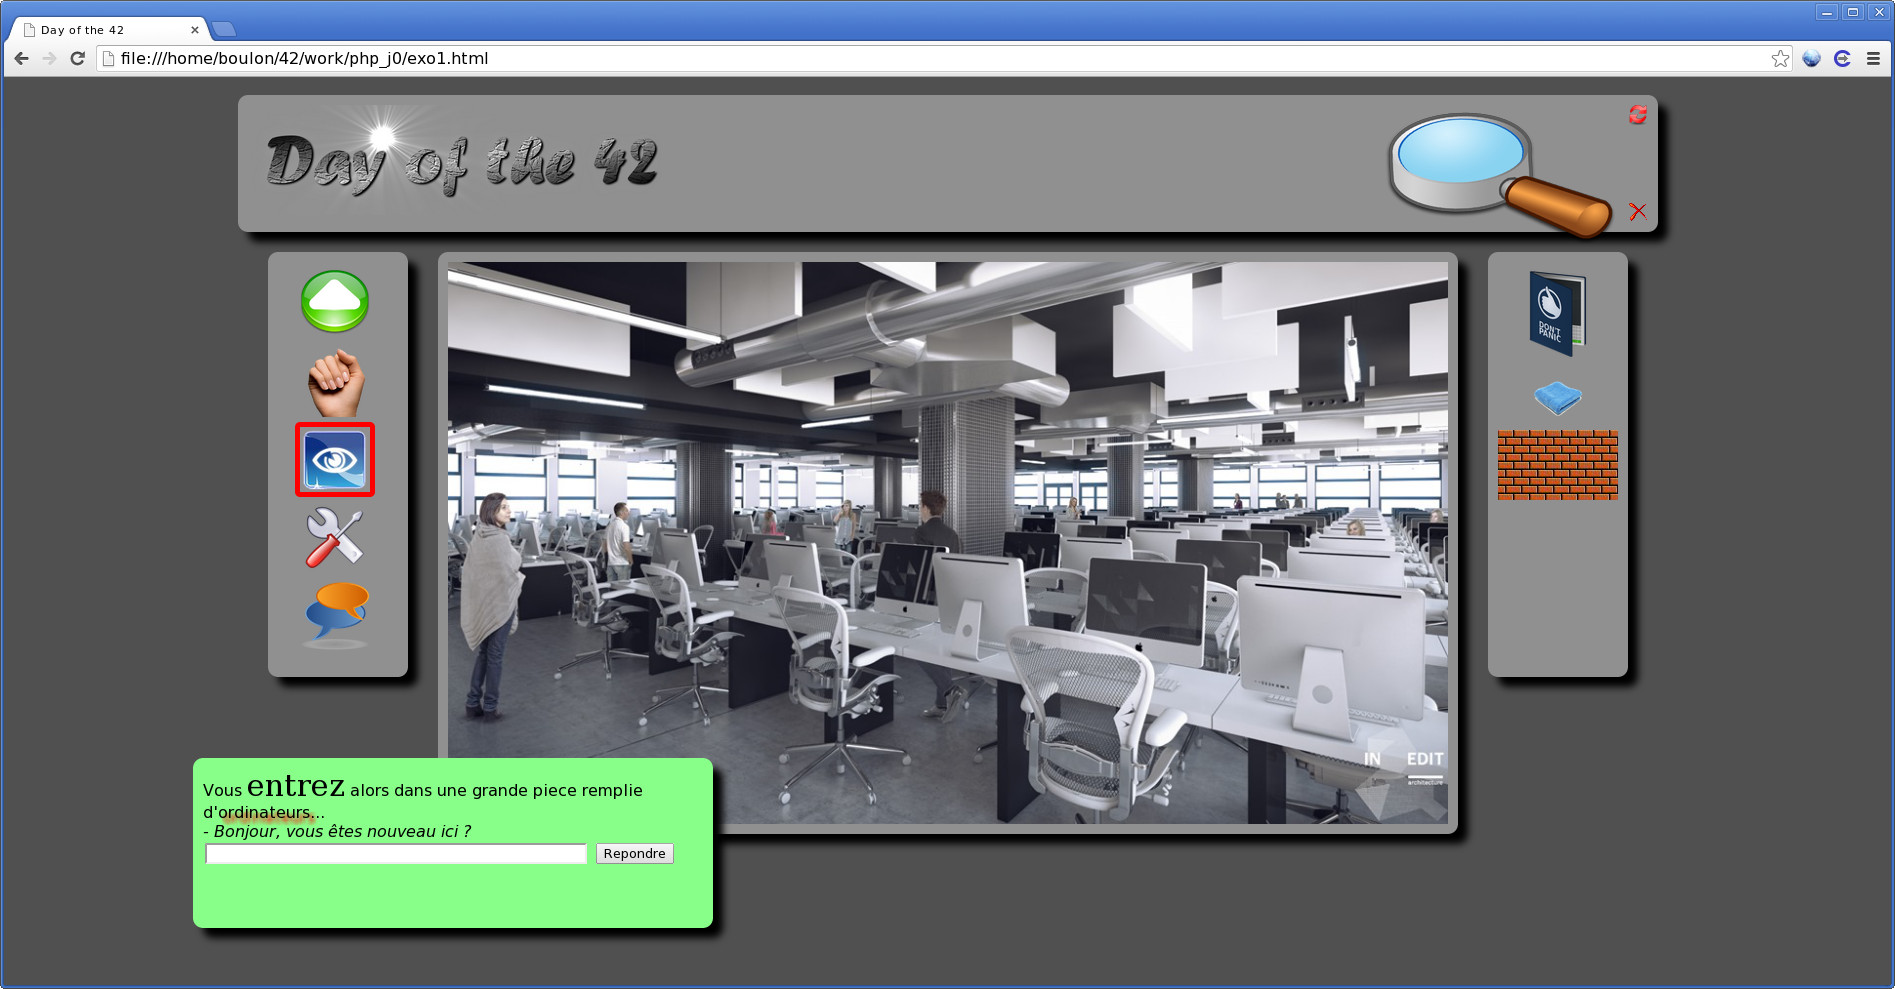
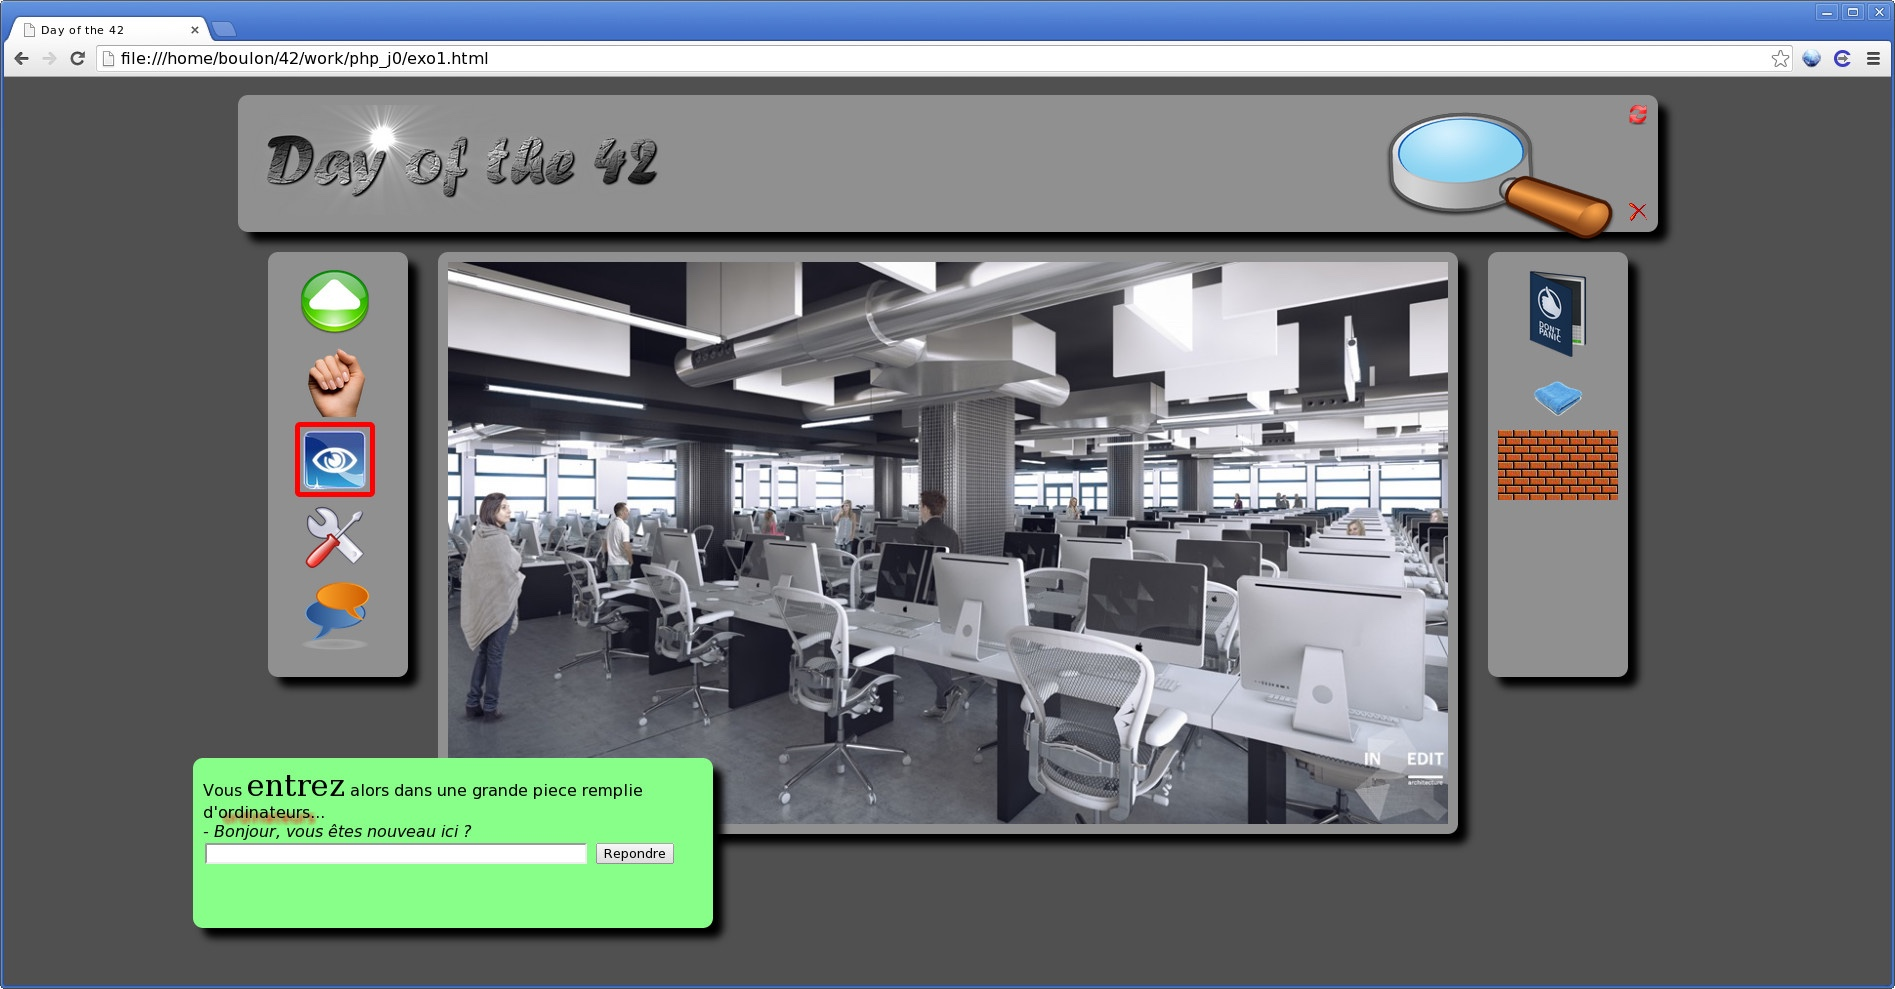
ex02

diff --git a/Day_00-HTML-CSS/ex02/doft.css b/Day_00-HTML-CSS/ex02/doft.css
@@ -8,12 +8,50 @@ body {
 .top_menu {
     width: 1420px;
     height: 136px;
-    margin-left: 240px;
+    margin-left: 235px;
     margin-right: 235px;
-    margin-top: 20px;
+    margin-top: 18px;
     background-color: #909090;
+    display: inline-block;
+    position: relative;
 }
 
 .top_image {
-    
+    height: 116px;
+    margin-top: 10px;
+    margin-bottom: 10px;
+    position: absolute;
+}
+
+.loupe {
+    width: 251px;
+    height: 140px;
+    margin-top: 15px;
+    margin-left: 1150px;
+}
+
+.left_menu {
+    width: 140px;
+    height: 265px;
+    margin-left: 265px;
+    background-color: #909090;
+    display: inline-block;
+    position: relative;
+}
+
+.center_image {
+    width: 1000px;
+    height: 560px;
+    margin-left: 180px;
+    display: inline-block;
+    position: relative;
+}
+
+.right_menu {
+    width: 140px;
+    height: 265px;
+    margin-left: 1080px;
+    background-color: #909090;
+    display: inline-block;
+    position: relative;
 }

diff --git a/Day_00-HTML-CSS/ex02/doft.html b/Day_00-HTML-CSS/ex02/doft.html
@@ -9,11 +9,14 @@
 </head>
 <body>
     <div class="top_menu">
-        <div>
-        <img src="resources/day_of_the_42.png" alt="42 Image" title="42 Image" class="top_image">
-            <img src="resources/loupe.png" alt="disney" title="disney">
-        </div>
-        <img src="resources/cluster.jpg" alt="cluster image" title="cluster image">
+        <img src="resources/day_of_the_42.png" alt="42 image" title="42 image" class="top_image">
+        <img src="resources/loupe.png" alt="disney" title="disney" class="loupe">
+    </div>
+    <div class="left_menu">
+        <img src="resources/cluster.jpg" alt="cluster image" title="cluster image" class="center_image">
+    </div>
+    <div class="right_menu">
+        
     </div>
 </body>
 </html>
